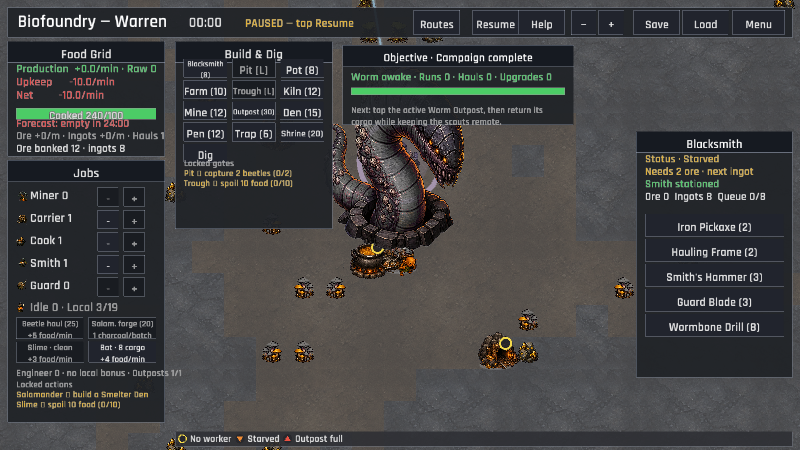
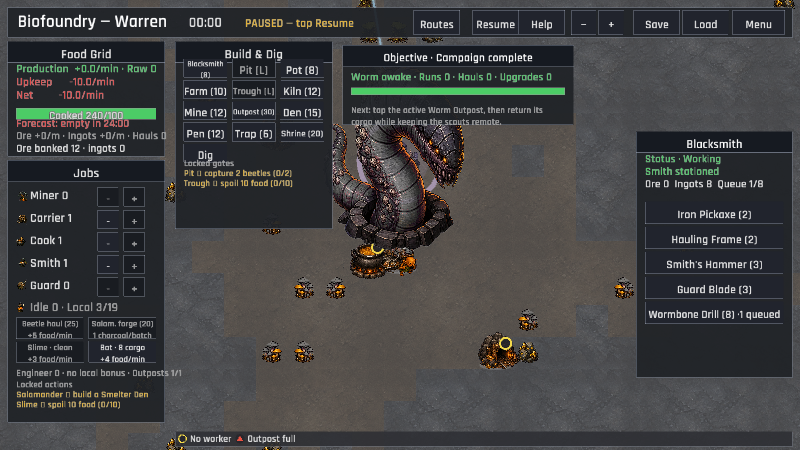
The stockpile feeds the anvil (banked ingot equipment orders)
Charter ingots now reserve into the Blacksmith buffer when a valid equipment order is queued, so funded recipes can begin immediately while any remaining cost stays available for local forging. The capture scene and player-facing catalog copy now exercise the same handoff, with regression coverage for partial funding and the refreshed compact evidence.

Changed region(s): [[0.8125, 0.3422, 1.0, 0.7467], [0.3125, 0.9644, 0.4375, 0.9956]]

diff --git a/src/game_actions.rs b/src/game_actions.rs
@@ -565,19 +565,19 @@ impl Game {
                 let cap = self.data.balance.order_queue_size;
                 let mut queued = false;
                 if let GameState::Warren(session) = &mut self.state {
-                    let recipe_unlocked = self
-                        .data
-                        .equipment_def(&item)
-                        .is_some_and(|equipment| session.equipment_unlocked(equipment));
-                    if let Some(b) = session.building_at_mut(pos) {
-                        if recipe_unlocked && b.kind == "blacksmith" && b.orders.len() < cap {
-                            b.orders.push(item);
-                            queued = true;
-                            self.notifications.info("Order queued.");
-                            self.audio.play(Sfx::Select);
+                    if let Some(ingots) = session.queue_equipment_order(&self.data, pos, item, cap)
+                    {
+                        queued = true;
+                        if ingots > 0 {
+                            self.notifications.info(format!(
+                                "Order queued · {ingots} ingots moved to the Blacksmith."
+                            ));
                         } else {
-                            self.audio.play(Sfx::Deny);
+                            self.notifications.info("Order queued.");
                         }
+                        self.audio.play(Sfx::Select);
+                    } else {
+                        self.audio.play(Sfx::Deny);
                     }
                 }
                 if queued {

diff --git a/src/state/tests.rs b/src/state/tests.rs
@@ -1,6 +1,7 @@
 use super::*;
 use crate::data::GameData;
-use crate::state::creatures::Task;
+use crate::state::creatures::{Good, Task};
+use crate::state::structures::Building;
 use macroquad_toolkit::notifications::{LoggedNotification, NotificationType};
 
 #[test]
@@ -60,6 +61,35 @@ fn saves_from_before_outpost_charter_load_unclaimed() {
     let restored: GameSession = serde_json::from_value(encoded).unwrap();
 
     assert!(!restored.outpost_charter_claimed);
+}
+
+#[test]
+fn blacksmith_orders_reserve_banked_ingots_before_forging_the_balance() {
+    let data = GameData::load().unwrap();
+    let mut session = GameSession::new(&data, 42);
+    let spot = session
+        .world
+        .tiles
+        .iter_with_pos()
+        .find(|(pos, _)| session.can_place_building(*pos))
+        .map(|(pos, _)| pos)
+        .expect("a walkable blacksmith location");
+    session.buildings.push(Building::new("blacksmith", spot));
+    session.economy.ingots_stock = 4;
+    let reserved = session
+        .queue_equipment_order(
+            &data,
+            spot,
+            "iron_pickaxe".to_owned(),
+            data.balance.order_queue_size,
+        )
+        .expect("the unlocked Blacksmith recipe should queue");
+
+    assert_eq!(reserved, 2);
+    assert_eq!(session.economy.ingots_stock, 2);
+    let shop = session.building_at(spot).unwrap();
+    assert_eq!(shop.stock(Good::Ingot), 2.0);
+    assert_eq!(shop.orders, vec!["iron_pickaxe"]);
 }
 
 #[test]

diff --git a/src/state.rs b/src/state.rs
@@ -551,6 +551,38 @@ impl GameSession {
             })
             .unwrap_or(true)
     }
+
+    /// Queue a valid Blacksmith recipe and move any available banked ingots
+    /// into the shop's buffer. Remaining cost can still be forged locally,
+    /// preserving the existing future-order behavior.
+    pub fn queue_equipment_order(
+        &mut self,
+        data: &GameData,
+        pos: TilePos,
+        item: String,
+        queue_cap: usize,
+    ) -> Option<u32> {
+        let cost = data
+            .equipment_def(&item)
+            .filter(|definition| self.equipment_unlocked(definition))
+            .map(|definition| definition.cost_ingots)?;
+        let queue_open = self.building_at(pos).is_some_and(|building| {
+            building.kind == "blacksmith" && building.orders.len() < queue_cap
+        });
+        if !queue_open {
+            return None;
+        }
+
+        let reserved = self.economy.ingots_stock.min(cost);
+        self.economy.ingots_stock -= reserved;
+        let Some(building) = self.building_at_mut(pos) else {
+            self.economy.ingots_stock += reserved;
+            return None;
+        };
+        building.add_stock(creatures::Good::Ingot, reserved as f32);
+        building.orders.push(item);
+        Some(reserved)
+    }
 }
 
 /// Pre-place the starting stockpile, cook pot, farm, and a working Mine on

diff --git a/src/game/capture_scenes/endless.rs b/src/game/capture_scenes/endless.rs
@@ -187,9 +187,13 @@ pub(super) fn begin(game: &mut Game, scene: &str) {
                     .map(|(pos, _)| pos)
                     .min_by_key(|pos| (pos.manhattan_distance(&spawn), pos.x, pos.y));
                 if let Some(spot) = spot {
-                    let mut shop = Building::new("blacksmith", spot);
-                    shop.add_stock(Good::Ingot, 8.0);
-                    session.buildings.push(shop);
+                    session.buildings.push(Building::new("blacksmith", spot));
+                    let _ = session.queue_equipment_order(
+                        &game.data,
+                        spot,
+                        "wormbone_drill".to_owned(),
+                        game.data.balance.order_queue_size,
+                    );
                     if let Some(worker) = session
                         .creatures
                         .iter_mut()

diff --git a/docs/phase-one/CANDIDATE_VERIFICATION.md b/docs/phase-one/CANDIDATE_VERIFICATION.md
@@ -34,7 +34,7 @@ automated simulation results into first-time-player evidence.
 | Endless Outpost survey rig | Pass (focused and capture evidence) | A route with both the expanded hold and camp can spend 16 banked ingots once to install a survey rig, raising the expedition yield from 3 to 4 ore per scout. The inspection card and route ledger expose the yield, the expedition forecast and completion use the upgraded value, and legacy routes retain the base yield. Refreshed [ui_endless_survey_upgrade.png](../verification/ui_endless_survey_upgrade.png) and [ui_endless_survey_upgraded.png](../verification/ui_endless_survey_upgraded.png) captures show the gated purchase and success toast. |
 | Endless Outpost resonance beacon | Pass (focused and capture evidence) | A route with a survey rig can spend 24 banked ingots once to tune a resonance beacon, shortening each scouting cycle from 30 to 20 seconds. The inspection hint, route ledger, expedition forecast, completion tick, and completed-campaign Objective expose the faster cycle, while legacy routes retain the original timing. Refreshed [ui_endless_resonator_upgrade.png](../verification/ui_endless_resonator_upgrade.png) and [ui_endless_resonator_upgraded.png](../verification/ui_endless_resonator_upgraded.png) captures show the gated purchase and success toast. |
 | Endless Worm Road Charter | Pass (focused and capture evidence) | After three completed scouting hauls across the awakened Outpost network, the data-driven one-time Charter awards 12 banked ingots and persists its claimed state. The completed-campaign Objective exposes the live haul target and reward, the simulation emits a safe-beat success event, and focused captures show the 2/3 setup and reward toast in `endless_charter` and `endless_charter_awarded`. |
-| Endless Charter equipment payoff | Pass (focused and capture evidence) | Claiming the Worm Road Charter unlocks the data-driven 8-ingot Wormbone Drill. The Blacksmith keeps the recipe disabled with an explicit `Charter required` label until the milestone is claimed; afterward the visible recipe can be queued, and the auto-equip loop prefers it over a weaker Iron Pickaxe for miners. Focused gate, persistence, simulation, and content-validation coverage pass; refreshed [ui_compact_blacksmith.png](../verification/ui_compact_blacksmith.png) shows the locked recipe, while [ui_compact_endless_wormbone_drill.png](../verification/ui_compact_endless_wormbone_drill.png) shows the unlocked Endless recipe and the 800×450 touch audit reports no grown-target overlap. |
+| Endless Charter equipment payoff | Pass (focused and capture evidence) | Claiming the Worm Road Charter unlocks the data-driven 8-ingot Wormbone Drill. The Blacksmith keeps the recipe disabled with an explicit `Charter required` label until the milestone is claimed; afterward the visible recipe can be queued, and any banked Charter ingots are reserved into the Blacksmith buffer at queue time so the order can start immediately. The auto-equip loop prefers the drill over a weaker Iron Pickaxe for miners. Focused gate, persistence, simulation, and content-validation coverage pass; refreshed [ui_compact_blacksmith.png](../verification/ui_compact_blacksmith.png) shows the locked recipe, while [ui_compact_endless_wormbone_drill.png](../verification/ui_compact_endless_wormbone_drill.png) shows the funded unlocked Endless recipe and the 800×450 touch audit reports no grown-target overlap. |
 | Endless crew dispatch quota | Pass (focused and capture evidence) | An awakened Outpost exposes the visible `Crew per run · Auto` control, which cycles through cargo-only and bounded scout counts. Legacy saves keep automatic dispatch, while cargo-only loads can deliver provisions without borrowing local workers; the Objective names the control when that setting blocks an otherwise-ready scouting payload. Refreshed [ui_endless_load_preview.png](../verification/ui_endless_load_preview.png), [ui_endless_upgrade.png](../verification/ui_endless_upgrade.png), and [ui_endless_upgraded.png](../verification/ui_endless_upgraded.png) captures keep the route controls readable. |
 | Endless cargo-only returns | Pass (focused and capture evidence) | A staffed Outpost exposes `Send N cargo · keep crew` beside the normal full return, so a completed haul can come home without recalling the remote scouts. The route keeps those scouts assigned for another expedition, the departure notice explains the choice, and the Objective/field guide describe the remote-team outcome. Refreshed [ui_endless.png](../verification/ui_endless.png), [ui_endless_expedition_report.png](../verification/ui_endless_expedition_report.png), and [ui_endless_upgraded.png](../verification/ui_endless_upgraded.png) captures keep both return paths readable. |
 | Endless automatic cargo returns | Pass (focused and capture evidence) | An awakened Outpost exposes the persisted `Auto-return · Off` / `Auto-return · Cargo only` policy. When an opted-in hold reaches capacity, the fixed-step simulation starts one cargo-only return, preserves the remote scouts and one configured expedition's food when other cargo creates room, and returns provisions too when they alone fill the hold so the route can resupply. It emits a departure notice and autosaves the safe beat; later routes wait for the global worm transit. Refreshed [ui_endless_auto_return.png](../verification/ui_endless_auto_return.png) shows the enabled policy beside the manual return and scouting controls. Live Preview route interaction remains unclaimed because the resumed developer save has not yet reached the Outpost unlock. |
@@ -81,7 +81,7 @@ automated simulation results into first-time-player evidence.
 ## Automated candidate checks
 
 - `cargo fmt -- --check` — pass.
-- `cargo test --all-targets` — 358 unit tests and 2 integration/code-standard
+- `cargo test --all-targets` — 359 unit tests and 2 integration/code-standard
   targets pass,
   including fresh/simulated/remote-transit valid sessions, modal route
   planning, rejected malformed save shapes, and event-history save/load
@@ -172,13 +172,14 @@ automated simulation results into first-time-player evidence.
   save-compatible Wormbone Drill, an 8-ingot miner tool that supersedes the
   Iron Pickaxe's 1.5× mining multiplier with 2×. The Blacksmith's disabled recipe
   names the exact `Charter required` gate before the milestone and becomes a
-  visible craft target afterward; save validation rejects gated gear in an
-  unclaimed session, and the auto-equip loop chooses the strongest unlocked
-  matching tool. Focused data, game-state, persistence, and simulation coverage
-  passes; refreshed [ui_compact_blacksmith.png](../verification/ui_compact_blacksmith.png)
-  and [ui_compact_endless_wormbone_drill.png](../verification/ui_compact_endless_wormbone_drill.png)
-  captures show the locked and unlocked states, with the 800×450 touch audit
-  reporting no grown-target overlap.
+  visible craft target afterward; queueing a funded order moves banked ingots into
+  the Blacksmith buffer, save validation rejects gated gear in an unclaimed
+  session, and the auto-equip loop chooses the strongest unlocked matching tool.
+  Focused data, game-state, persistence, and simulation coverage passes; refreshed
+  [ui_compact_blacksmith.png](../verification/ui_compact_blacksmith.png) and
+  [ui_compact_endless_wormbone_drill.png](../verification/ui_compact_endless_wormbone_drill.png)
+  captures show the locked and funded unlocked states, with the 800×450 touch
+  audit reporting no grown-target overlap.
 - Endless crew dispatch quota — pass; a save-compatible optional quota keeps
   older routes on automatic dispatch, cycles the visible control through
   cargo-only and bounded scout counts, and limits new passengers in transit.
